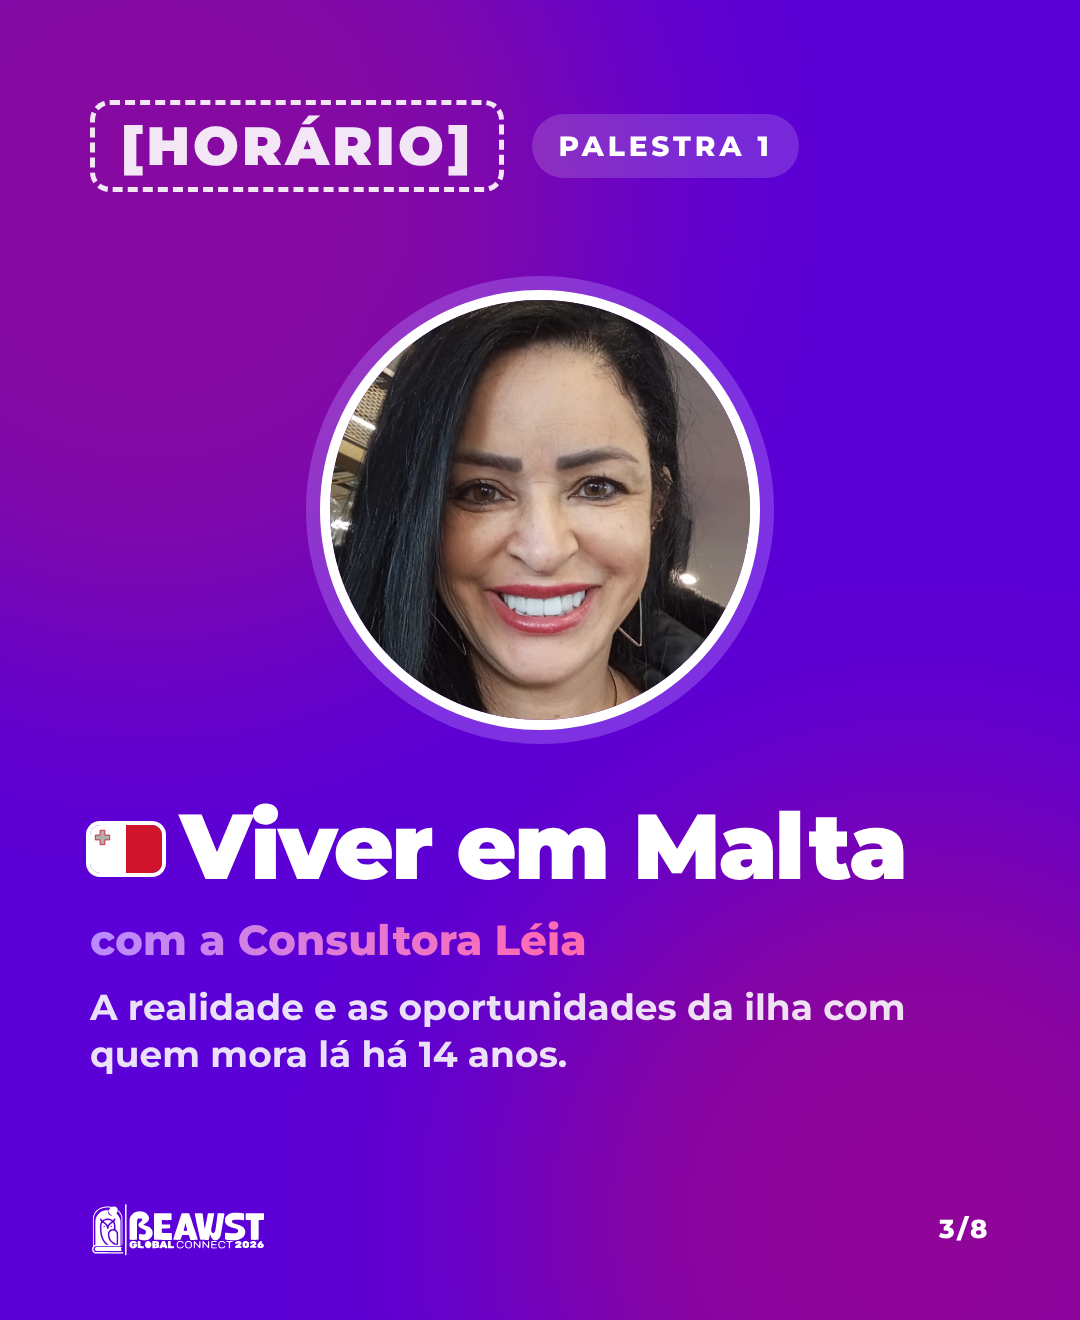
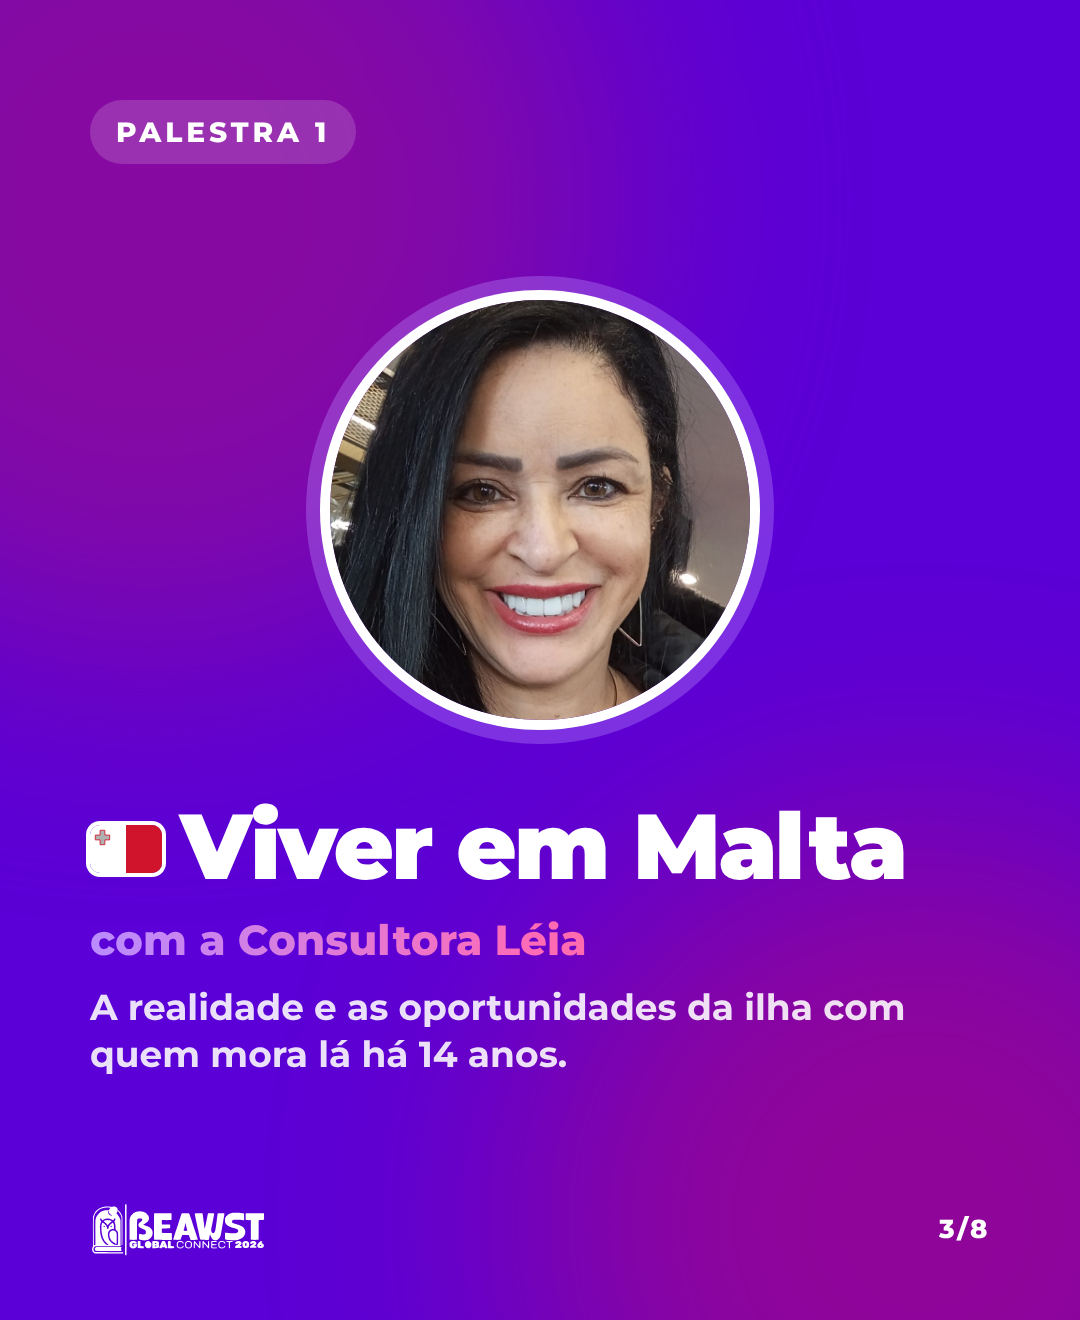
Carrossel Programação: sem horários
Claude-Session: https://claude.ai/code/session_01KyHVk97BxwCKQz2piQjfor

Changed region(s): [[0.0611, 0.0621, 0.7639, 0.1553]]

diff --git a/beawst-carrossel-programacao/carrossel.html b/beawst-carrossel-programacao/carrossel.html
@@ -6,7 +6,7 @@
 <!-- Carrossel "Programação" (8 slides, 1080x1320). ?s=1 ... ?s=8. Gerar: node render.mjs -->
 <script>
 // ====== EDITE AQUI: horários e palestras ======
-// Horário vazio ('') aparece como "[HORÁRIO]" tracejado, pra lembrar que falta.
+// Horário vazio ('') não aparece no slide. Preencha (ex.: '8h30') quando tiver a grade.
 const PROGRAMA = [
   { hora: '', titulo: 'Abertura com Samanta Lopes', sub: 'apresentadora oficial', foto: 'assets/apresentadora.jpg', pos: '50% 22%', zoom: 1.45, origem: '50% 30%' },
   { hora: '', titulo: 'Viver em Malta', sub: 'com a Consultora Léia', bandeira: 'malta', foto: 'assets/leia.jpg', pos: '50% 42%', zoom: 1.7, origem: '50% 46%',
@@ -122,7 +122,7 @@ body{font-family:M,sans-serif;color:#fff;-webkit-font-smoothing:antialiased}
 const BG = ['var(--escuro)', 'var(--roxo)', 'var(--escuro)', 'var(--roxo)'];
 document.getElementById('talks').innerHTML = PROGRAMA.map((p, i) => {
   const n = i + 2;
-  const hora = p.hora ? `<span class="hora gradL">${p.hora}</span>` : `<span class="hora falta">[HORÁRIO]</span>`;
+  const hora = p.hora ? `<span class="hora gradL">${p.hora}</span>` : '';   // sem horário: não mostra nada
   const media = p.foto
     ? `<div class="circ" style="width:420px;height:420px"><img src="${p.foto}" style="object-position:${p.pos};transform:scale(${p.zoom || 1});transform-origin:${p.origem || '50% 50%'}"></div>`
     : `<div style="width:620px;height:300px;border-radius:36px;background:${p.logoFundo};display:flex;align-items:center;justify-content:center;box-shadow:0 0 0 6px #fff"><img src="${p.logo}" style="max-width:80%;max-height:80%"></div>`;

diff --git a/beawst-carrossel-programacao/README.md b/beawst-carrossel-programacao/README.md
@@ -1,3 +1,3 @@
 # Carrossel "Programação" (8 slides, 1080×1320)
 
-`out/slide-1.png` … `out/slide-8.png`. Horários e palestras: `PROGRAMA` no topo de `carrossel.html` (horário vazio aparece como [HORÁRIO]). Gerar: `node render.mjs`.
+`out/slide-1.png` … `out/slide-8.png`. Horários e palestras: `PROGRAMA` no topo de `carrossel.html` (horário vazio não aparece). Gerar: `node render.mjs`.
